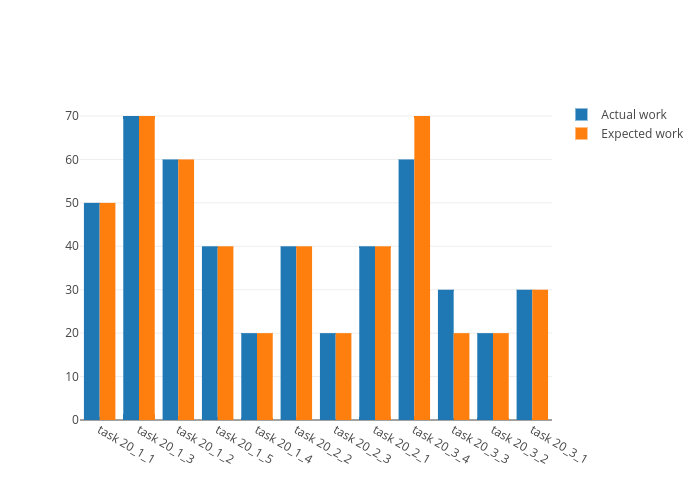
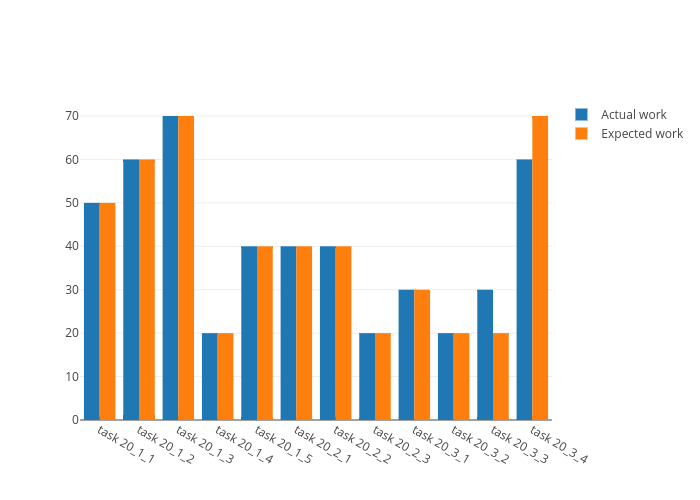
Refactored perf2_4.py

diff --git a/Milestone3/Python/Scripts/perf2_4.py b/Milestone3/Python/Scripts/perf2_4.py
@@ -5,6 +5,7 @@ import plotly.plotly as py
 import plotly.graph_objs as go
 import plotly
 import json
+import sys
 from pprint import pprint
 import os
 import s3
@@ -12,7 +13,15 @@ import s3
 current_path = os.path.dirname(os.path.realpath("__file__"))
 
 def parse_json_for_taskComp(sprintId):
-    file = open(os.path.join(current_path,'../../../AustinBot/mockData.json'), 'r')
+    current_path = os.path.dirname(os.path.realpath("__file__"))
+    os.chdir(current_path)
+    #Traverse to the Project Root
+    #This is done by checking whether the folder AustinBot exits in the current path
+    while(not os.path.exists('AustinBot')):
+        current_path = os.path.join(current_path, '..')
+        os.chdir('..')
+    
+    file = open(os.path.join(current_path,'AustinBot/mockData.json'), 'r')
     mock = json.load(file)
     sprintIdx = 0
     for idx, sprint in enumerate(mock["sprint"]):
@@ -51,12 +60,27 @@ def plot_taskComp(x, y_actual, y_expected):
     barmode='group'
     )
     fig = go.Figure(data=data, layout=layout)
-    py.image.save_as(fig, filename=os.path.join(current_path,'../Plots/performance2_4.png'))
+    current_path = os.path.dirname(os.path.realpath("__file__"))
+    os.chdir(current_path)
+    #Traverse to the Project Root
+    #This is done by checking whether the folder AustinBot exits in the current path
+    while(not os.path.exists('AustinBot')):
+        current_path = os.path.join(current_path, '..')
+        os.chdir('..')
+    
+    file = open(os.path.join(current_path,'AustinBot/mockData.json'), 'r')
+    py.image.save_as(fig, filename=os.path.join(current_path,'Milestone3/Python/Plots/performance2_4.png'))
     return fig
 
-sprintId = "20"
+def main():
+    sprintId = sys.argv[1]
+    [x,y_actual,y_expected] = parse_json_for_taskComp(sprintId)
+    print(x)
+    print(y_actual)
+    print(y_expected)
+    fig=plot_taskComp(x,y_actual,y_expected)
+    #plotly.offline.plot(fig, filename='simple-connectgaps.html', image='png')
+    s3.save_file_to_s3('performance2_4.png')
 
-[x,y_actual,y_expected] = parse_json_for_taskComp(sprintId)
-fig=plot_taskComp(x,y_actual,y_expected)
-plotly.offline.plot(fig, filename='simple-connectgaps.html', image='png')
-s3.save_file_to_s3('performance2_4.png')
+if __name__ == '__main__':
+    main()
